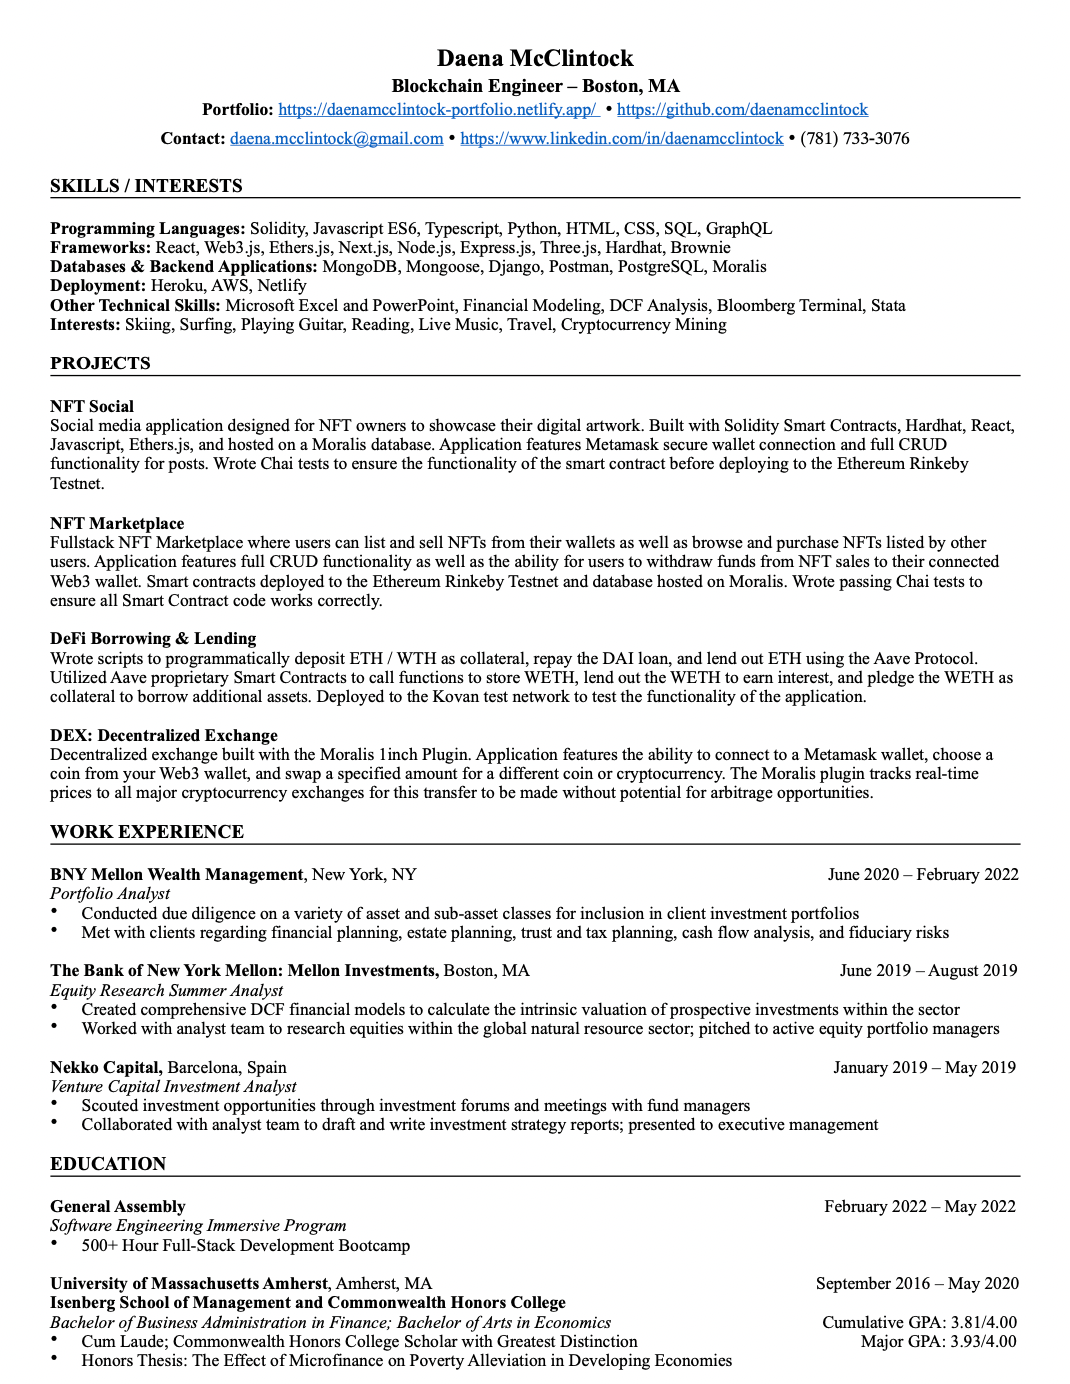
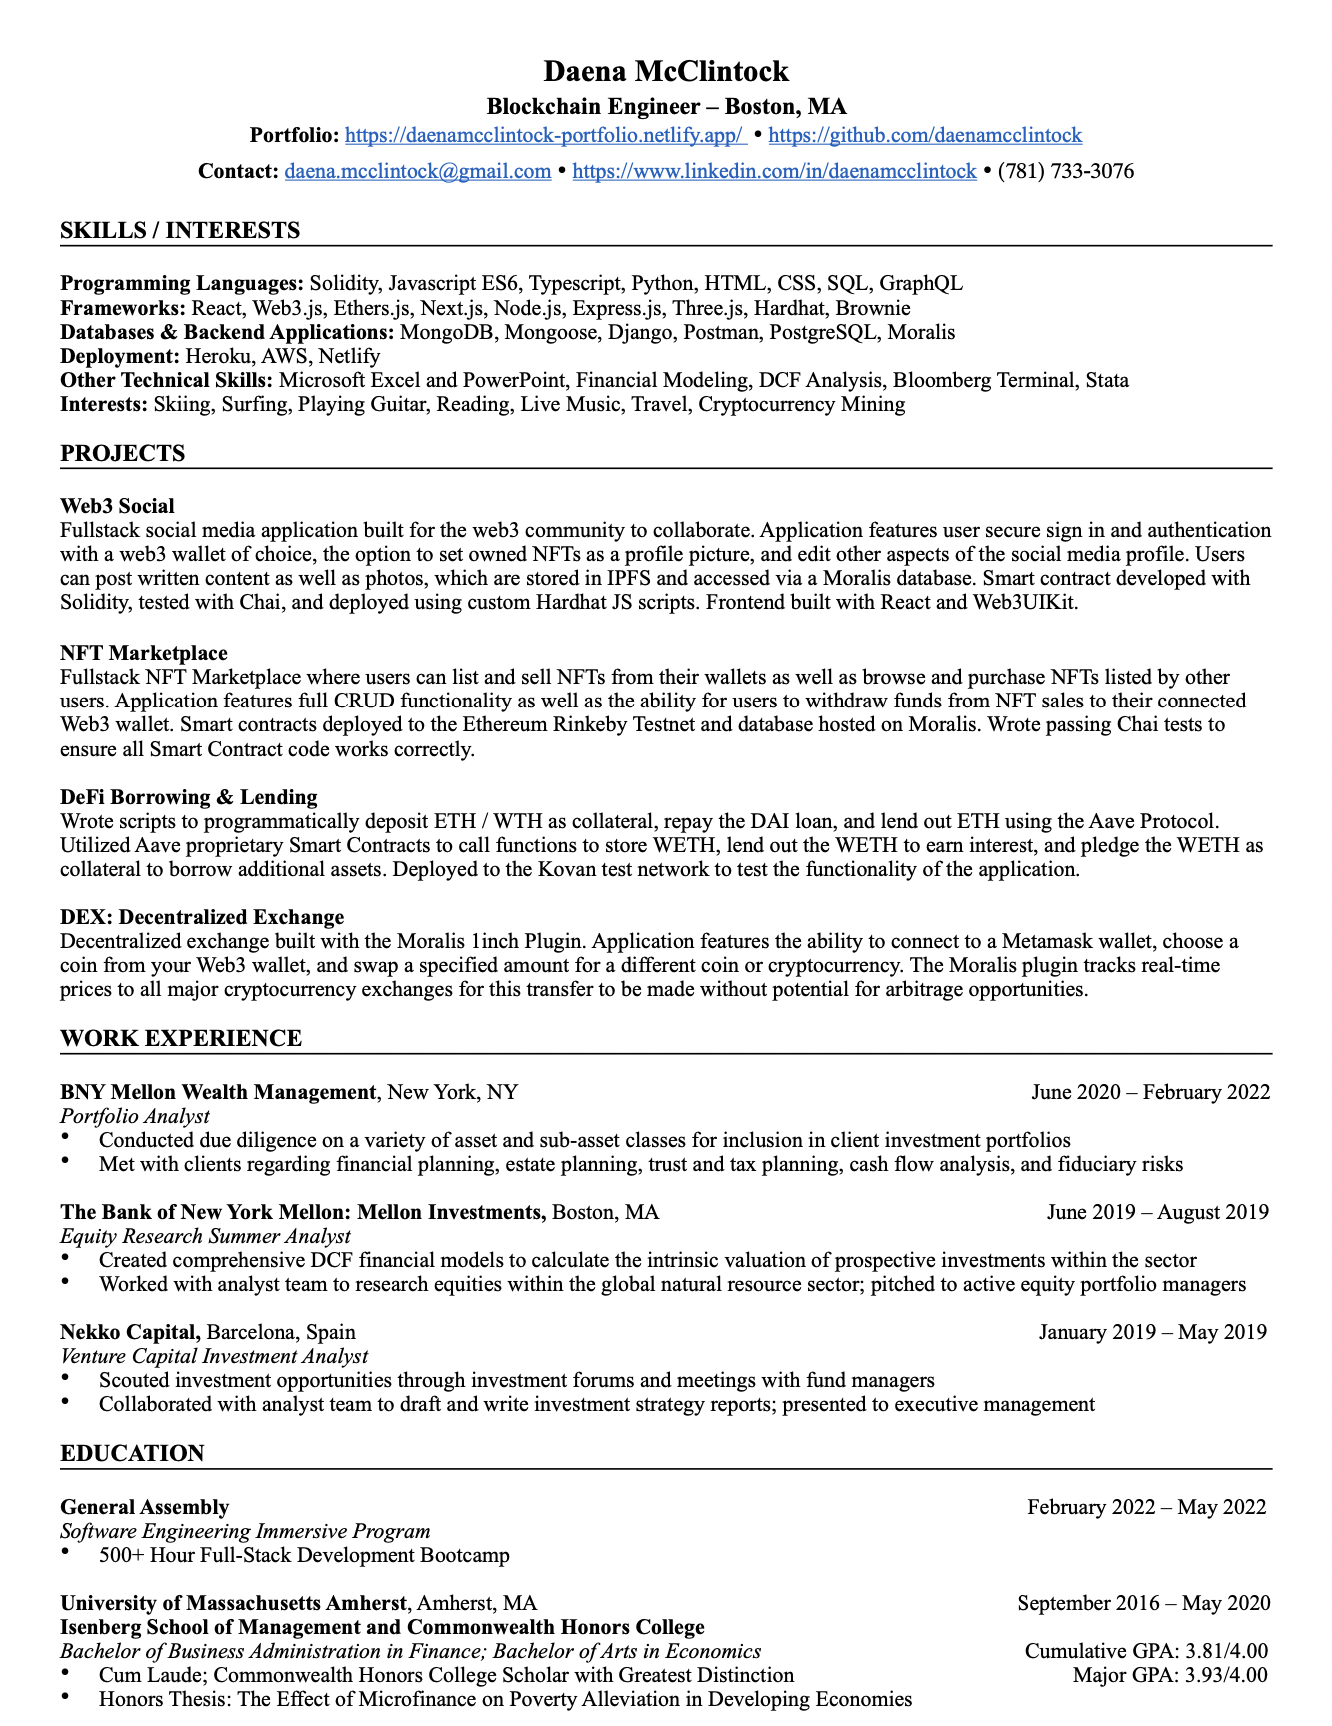
update to resume

Changed region(s): [[0.0308, 0.0311, 0.9561, 0.9942]]

diff --git a/src/constants/constants.js b/src/constants/constants.js
@@ -1,7 +1,7 @@
 export const projects = [
   {
     title: 'Web3 Social',
-    description: "Fullstack social media application built for the web3 community to collaborate. Users sign in with a web3 wallet of choice, have the option to set owned NFTs as their profile picture, and can edit other aspects of their profile. Users can post written content as well as photos, which are stored in a Moralis database. Smart contract developed with Solidity, tested with Chai, and deployed using custom Hardhat JS scripts. Frontend built with React and Web3UIKit.",
+    description: "Fullstack social media application built for the web3 community to collaborate. Application features user secure sign in with a web3 wallet, the ability to set owned NFTs as a profile picture, and edit other aspects of the social media profile. Users can post written content as well as photos, which are stored in IPFS and accessed via a Moralis database. Smart contract developed in Solidity, tested with Chai, and deployed using custom Hardhat JS scripts. Frontend built with React and Web3UIKit.",
     image: '/images/Web3Social.png',
     tags: ['Solidity', 'Hardhat', 'React', 'Web3UIKit'],
     source: 'https://web3-social-media.netlify.app/',
